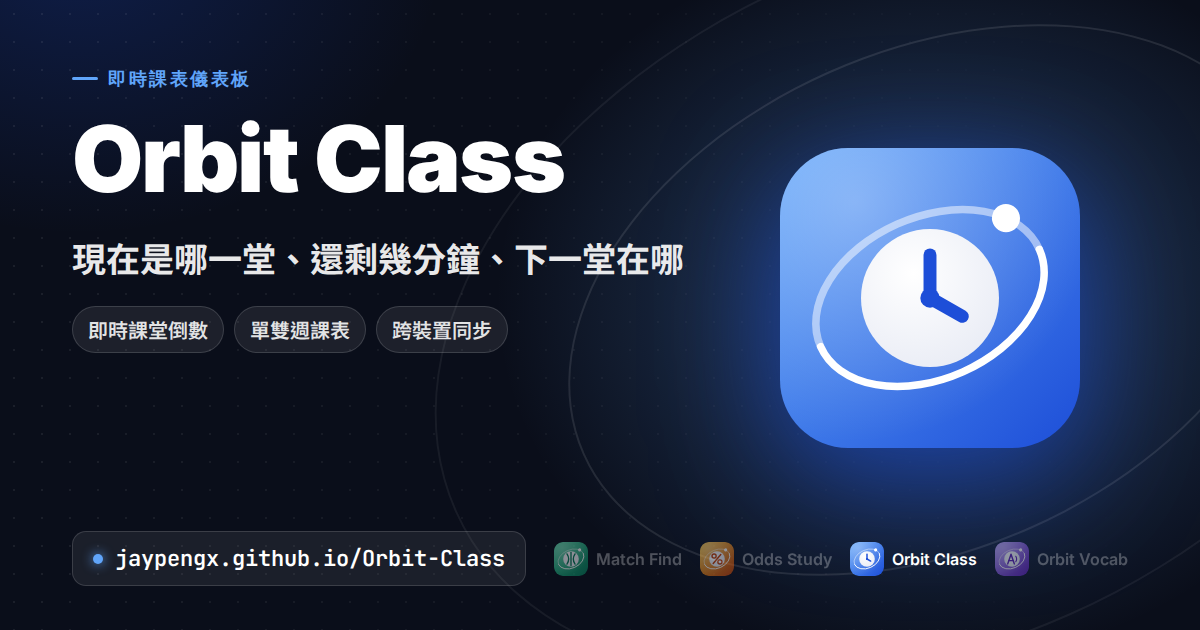
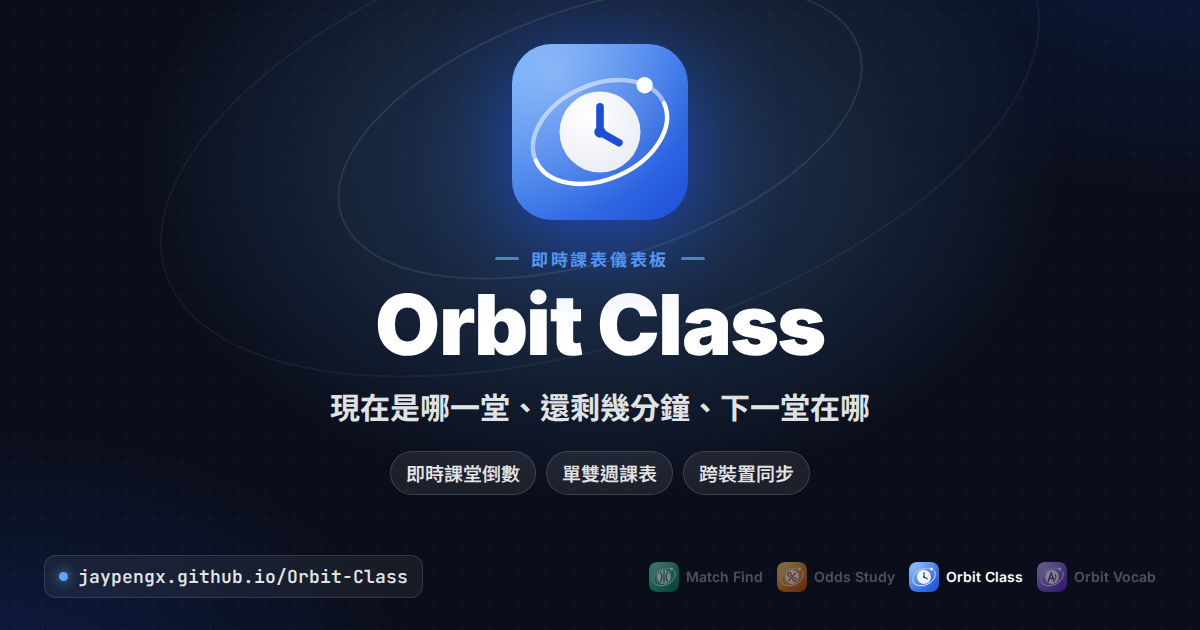
Make link previews work at thumbnail size too
Many apps (WhatsApp, Telegram, LINE, iMessage, Slack's compact view) don't show the wide card - they crop its middle to a small square. The wide card is now laid out around its center, so that crop still shows the icon and the app name; the URL and the app family strip sit in the outer corners.

Adds a 1200x1200 square card as a second og:image for platforms that pick a square image, plus og:image:alt / twitter:image:alt text.

Claude-Session: https://claude.ai/code/session_011gRUGYTdy3QH8ZGKD1vFqq

diff --git a/index.html b/index.html
@@ -17,10 +17,16 @@
     <meta property="og:image" content="https://jaypengx.github.io/Orbit-Class/og-card.png">
     <meta property="og:image:width" content="1200">
     <meta property="og:image:height" content="630">
+    <meta property="og:image:alt" content="Orbit Class — 即時課表儀表板">
+    <meta property="og:image" content="https://jaypengx.github.io/Orbit-Class/og-card-square.png">
+    <meta property="og:image:width" content="1200">
+    <meta property="og:image:height" content="1200">
+    <meta property="og:image:alt" content="Orbit Class — 即時課表儀表板">
     <meta name="twitter:card" content="summary_large_image">
     <meta name="twitter:title" content="Orbit Class — 即時課表儀表板">
     <meta name="twitter:description" content="現在是哪一堂、還剩幾分鐘、下一堂在哪——打開就有答案，不用自己對照時間表。">
     <meta name="twitter:image" content="https://jaypengx.github.io/Orbit-Class/og-card.png">
+    <meta name="twitter:image:alt" content="Orbit Class — 即時課表儀表板">
     <link rel="manifest" href="manifest.json">
     <link rel="icon" type="image/png" sizes="32x32" href="icons/favicon-32.png?v=__APP_VERSION__">
     <link rel="icon" type="image/png" sizes="16x16" href="icons/favicon-16.png?v=__APP_VERSION__">
